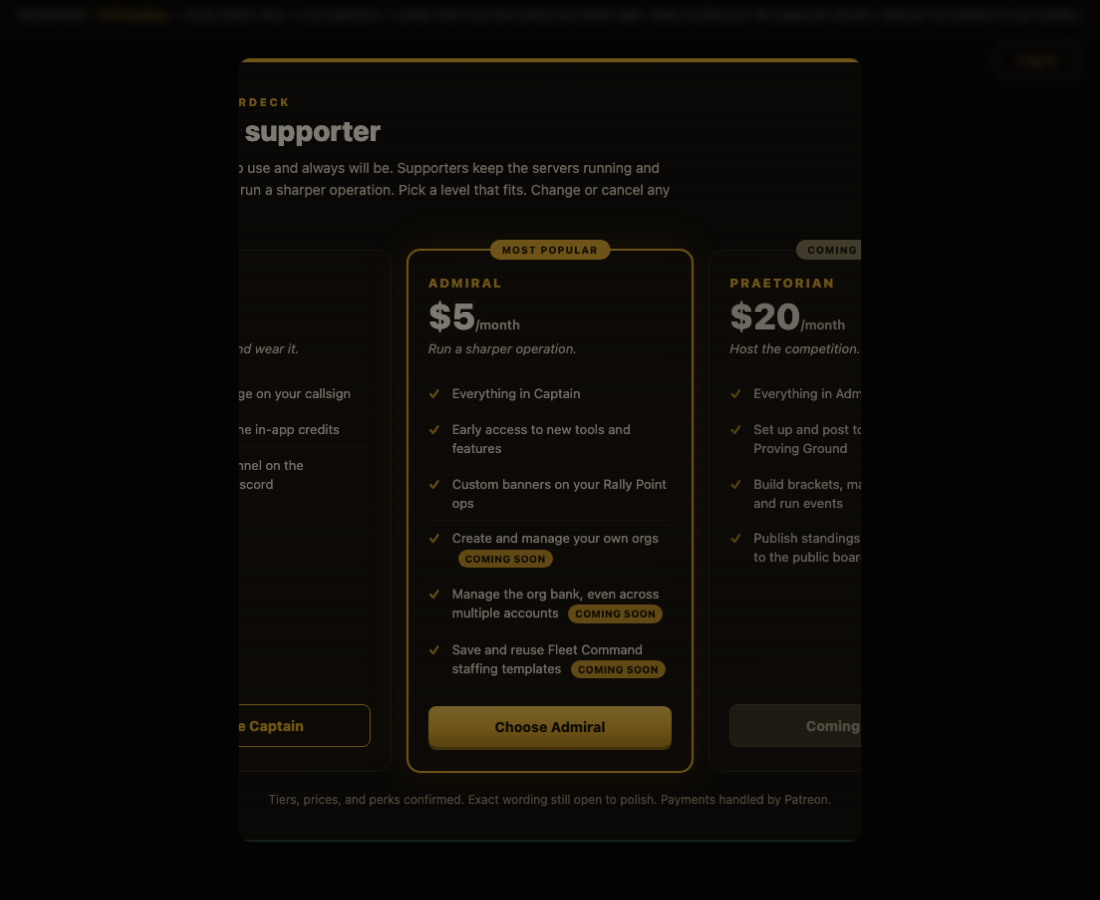
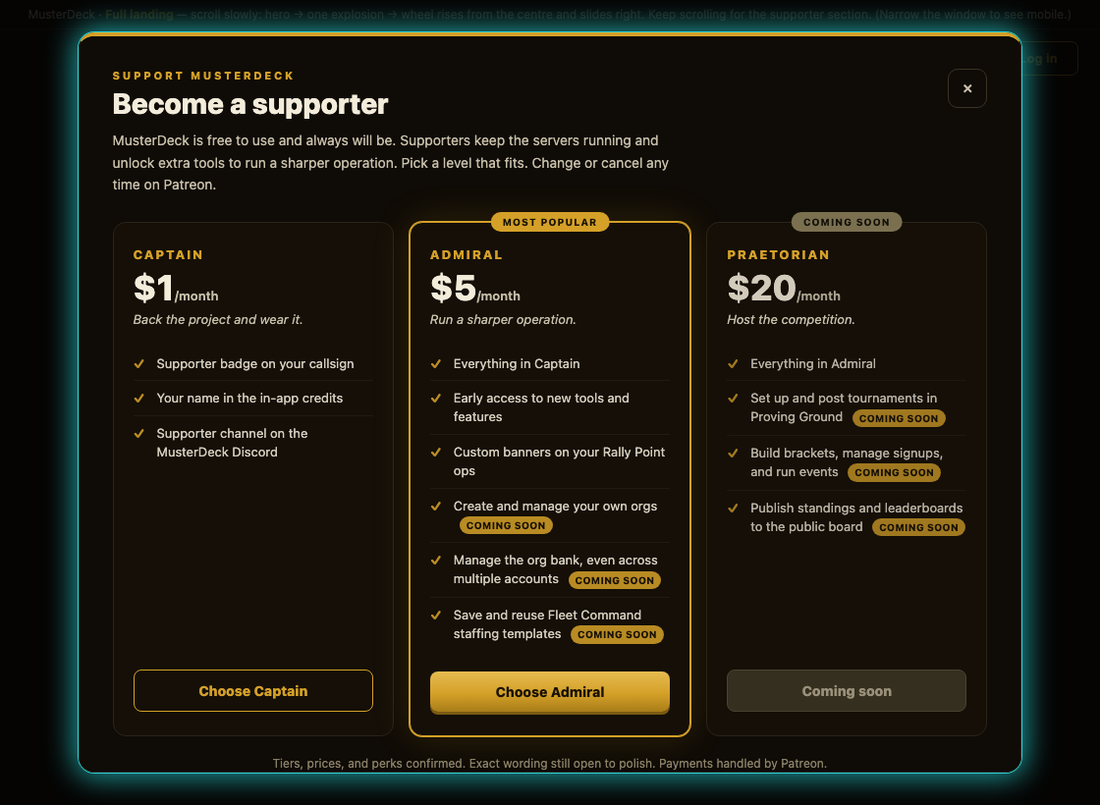
feat(landing): add Coming soon pills to Praetorian's Proving Ground items
Match the Admiral treatment — per-item Coming soon pills on the three
Proving-Ground-dependent Praetorian perks (tournaments, brackets, standings),
alongside the existing ribbon + disabled button. Synced to the reusable
component; refreshed supporter screenshot.

diff --git a/docs/components/become-a-supporter.html b/docs/components/become-a-supporter.html
@@ -107,7 +107,7 @@
     <div class="tiers">
       <div class="tier"><div class="tn">Captain</div><div class="price">$1<span>/month</span></div><div class="tdesc">Back the project and wear it.</div><ul><li>Supporter badge on your callsign</li><li>Your name in the in-app credits</li><li>Supporter channel on the MusterDeck Discord</li></ul><button class="pick">Choose Captain</button></div>
       <div class="tier feat"><div class="ribbon">Most popular</div><div class="tn">Admiral</div><div class="price">$5<span>/month</span></div><div class="tdesc">Run a sharper operation.</div><ul><li>Everything in Captain</li><li>Early access to new tools and features</li><li>Custom banners on your Rally Point ops</li><li>Create and manage your own orgs <span class="soon">Coming soon</span></li><li>Manage the org bank, even across multiple accounts <span class="soon">Coming soon</span></li><li>Save and reuse Fleet Command staffing templates <span class="soon">Coming soon</span></li></ul><button class="pick">Choose Admiral</button></div>
-      <div class="tier soon-tier"><div class="ribbon soon-ribbon">Coming soon</div><div class="tn">Praetorian</div><div class="price">$20<span>/month</span></div><div class="tdesc">Host the competition.</div><ul><li>Everything in Admiral</li><li>Set up and post tournaments in Proving Ground</li><li>Build brackets, manage signups, and run events</li><li>Publish standings and leaderboards to the public board</li></ul><button class="pick" disabled>Coming soon</button></div>
+      <div class="tier soon-tier"><div class="ribbon soon-ribbon">Coming soon</div><div class="tn">Praetorian</div><div class="price">$20<span>/month</span></div><div class="tdesc">Host the competition.</div><ul><li>Everything in Admiral</li><li>Set up and post tournaments in Proving Ground <span class="soon">Coming soon</span></li><li>Build brackets, manage signups, and run events <span class="soon">Coming soon</span></li><li>Publish standings and leaderboards to the public board <span class="soon">Coming soon</span></li></ul><button class="pick" disabled>Coming soon</button></div>
     </div>
     <div class="tnote">Tiers, prices, and perks confirmed. Exact wording still open to polish. Payments handled by Patreon.</div>
   </div>

diff --git a/docs/landing/landing.html b/docs/landing/landing.html
@@ -365,7 +365,7 @@
     <div class="tiers">
       <div class="tier"><div class="tn">Captain</div><div class="price">$1<span>/month</span></div><div class="tdesc">Back the project and wear it.</div><ul><li>Supporter badge on your callsign</li><li>Your name in the in-app credits</li><li>Supporter channel on the MusterDeck Discord</li></ul><button class="pick">Choose Captain</button></div>
       <div class="tier feat"><div class="ribbon">Most popular</div><div class="tn">Admiral</div><div class="price">$5<span>/month</span></div><div class="tdesc">Run a sharper operation.</div><ul><li>Everything in Captain</li><li>Early access to new tools and features</li><li>Custom banners on your Rally Point ops</li><li>Create and manage your own orgs <span class="soon">Coming soon</span></li><li>Manage the org bank, even across multiple accounts <span class="soon">Coming soon</span></li><li>Save and reuse Fleet Command staffing templates <span class="soon">Coming soon</span></li></ul><button class="pick">Choose Admiral</button></div>
-      <div class="tier soon-tier"><div class="ribbon soon-ribbon">Coming soon</div><div class="tn">Praetorian</div><div class="price">$20<span>/month</span></div><div class="tdesc">Host the competition.</div><ul><li>Everything in Admiral</li><li>Set up and post tournaments in Proving Ground</li><li>Build brackets, manage signups, and run events</li><li>Publish standings and leaderboards to the public board</li></ul><button class="pick" disabled>Coming soon</button></div>
+      <div class="tier soon-tier"><div class="ribbon soon-ribbon">Coming soon</div><div class="tn">Praetorian</div><div class="price">$20<span>/month</span></div><div class="tdesc">Host the competition.</div><ul><li>Everything in Admiral</li><li>Set up and post tournaments in Proving Ground <span class="soon">Coming soon</span></li><li>Build brackets, manage signups, and run events <span class="soon">Coming soon</span></li><li>Publish standings and leaderboards to the public board <span class="soon">Coming soon</span></li></ul><button class="pick" disabled>Coming soon</button></div>
     </div>
     <div class="tnote">Tiers, prices, and perks confirmed. Exact wording still open to polish. Payments handled by Patreon.</div>
   </div>